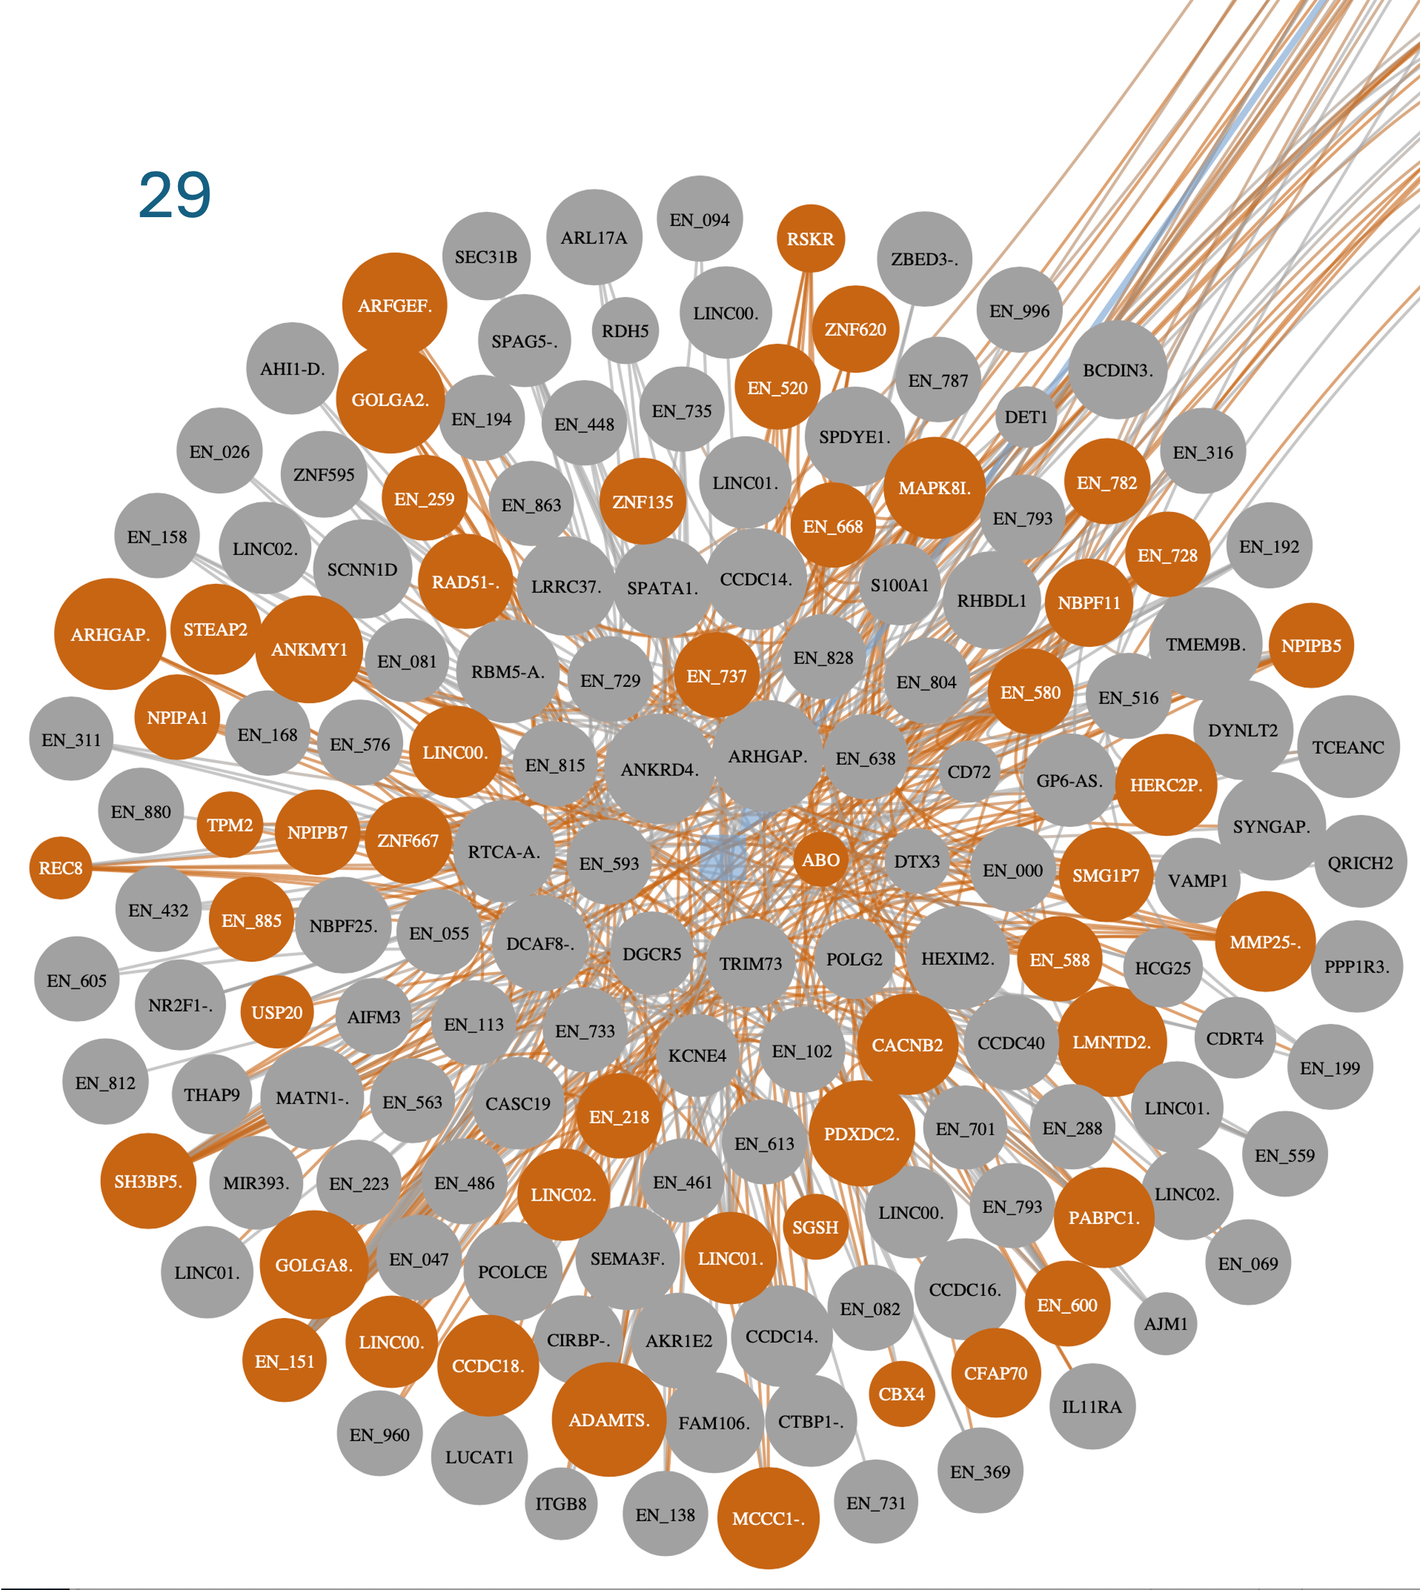
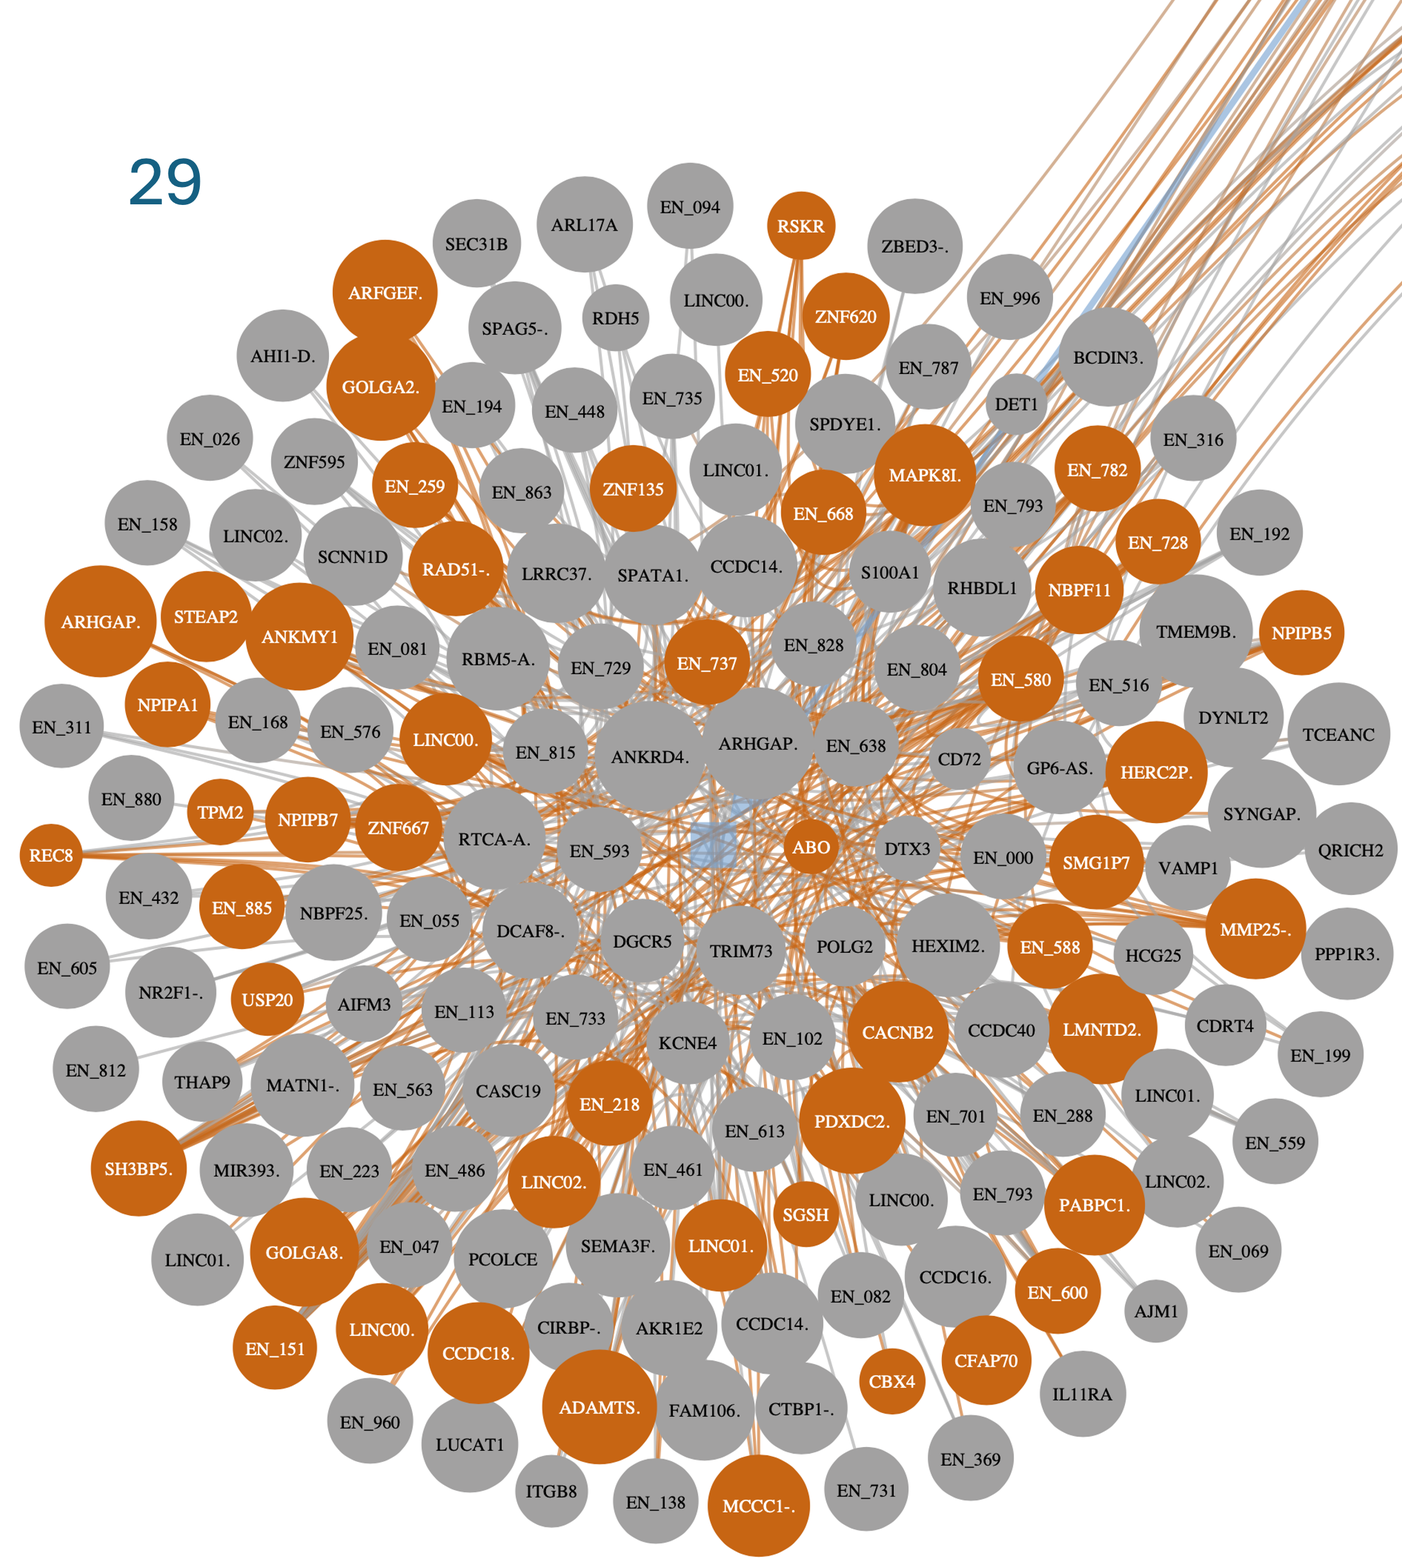
Some minor changes to Net II

Changed region(s): [[0.0, 0.0, 1.0, 1.0], [0.0935, 0.0937, 0.1558, 0.1561]]

diff --git a/Sections/Network_II/methods.tex b/Sections/Network_II/methods.tex
@@ -34,13 +34,13 @@ The new package was tested by comparing the outputs generated with \textit{iNet}
 
 In previous chapter two different edges weight modifiers were introduced with the goal to integrate the mutation count at the weight level; see \cref{fig:N_I:modifiers}. It was observed that both had an effect on the network metrics but with little impact on the MIBC stratification. One possible explanation for this is that the modifiers had a steep increase/decrease over the weights with no intermediate effect to the weights. This means that only a few genes and their connections were affected.
 
-The reward function is preferred over the penalised modifier as it did not contain isolated nodes. The initial version of the reward modifier is described by \cref{eq:norm3_func}, where w is the $log_2$ transformed of the mutation burden shifted by 1 (to avoid undefined values at 0 see \cref{eq:w}. $x$ represents the mutation burden taken from the TCGA dataset.  The behaviour of the function is shown by the red line in \cref{fig:N_II:modifiers_comp} which has an arc-like behaviour, where most of the mutated genes increase the weights value up to $50\%$ (value of $1.5$). The figure also shows that genes with high mutation burden do not have a proportional impact on the weight modifier.
+The reward function is preferred over the penalised modifier as it did not contain isolated nodes. The initial version of the reward modifier is described by \cref{eq:n_II:norm3_func}, where w is the $log_2$ transformed of the mutation burden shifted by 1 (to avoid undefined values at 0 see \cref{eq:n_II:w} \footnote{\Cref{eq:n_II:w,eq:n_II:norm3_func} are the same equations as the ones from \cref{s:N_I:weight_modifiers} and were presented here again to improve the reading experience.}. $x$ represents the mutation burden taken from the TCGA dataset.  The behaviour of the function is shown by the red line in \cref{fig:N_II:modifiers_comp} which has an arc-like behaviour, where most of the mutated genes increase the weights value up to $50\%$ (value of $1.5$). The figure also shows that genes with high mutation burden do not have a proportional impact on the weight modifier.
 
-\begin{equation} \label{eq:w}
+\begin{equation} \label{eq:n_II:w}
     w(x) = \log_2(x+1)
 \end{equation}
 
-\begin{equation} \label{eq:norm3_func}
+\begin{equation} \label{eq:n_II:norm3_func}
 \text{f}(w) = \frac{\max(w) + w}{\max(w)}
 \end{equation}
 
@@ -50,14 +50,14 @@ To accommodate the limitation of the previous function, a new reward function is
 \text{f}(x) =  \frac{1}{1 + e^{-(x - x_0)}} + 1, \text{ where } x_0=-8
 \end{equation}
 
-The behaviour of the logistic reward function is represented by the green line in \cref{fig:N_II:modifiers_comp}. From the figure it can be noticed the gradual increase of the weight modifier with the mutational burden. Highly mutated genes sch as \textit{FGFR3, KMT2C, PIK3CA} have a much higher impact on the weights compared to the previous weight function. It also worth noting that a 50\% increase of the weight value happens at a point of $\sim30$ mutation burden.
+The behaviour of the logistic reward function is represented by the green line in \cref{fig:N_II:modifiers_comp}. From the figure it can be noticed the gradual increase of the weight modifier with the mutational burden. Highly mutated genes sch as \textit{FGFR3, KMT2C, PIK3CA} have a much higher impact on the weights compared to the previous weight function. It worth noting that a 50\% increase of the weight value happens at a point of $\sim30$ mutation burden equating to $\sim7\%$ of the cohort mutated there are 112 genes mutated
 
 Later in the chapter, \cref{s:N_II:reward_comp}, there is a direct comparison of the network metrics across both tumour and non-tumour of the two modifier functions.
 
 \begin{figure}[H]    
     \centering
     \includegraphics[width=1.0\textwidth,height=1.0\textheight,keepaspectratio]{Sections/Network_II/validation/reward_modifiers.png}
-    \caption{The two reward modifiers explored in this project: Reward v1 (red) and Reward v2 (sigmoid). Both are shown over the mutation burden from TCGA. The points correspond to both of the plots but only shown on the Reward 2 line to avoid clutter. A value on the Y-axis of $1.2$ will mean that the weight is increased by $20\%$ where of $2$ will result in doubling it as it is the case for the highly mutated $TP53$. }
+    \caption{The two reward modifiers explored in this project: Reward v1 (red) and Reward v2 (sigmoid). Both are shown over the mutation burden from TCGA. The points correspond to both of the plots but only shown on the Reward 2 line to avoid clutter. A value on the Y-axis of $1.2$ will mean that the weight is increased by $20\%$ where of $2$ will result in doubling it as it is the case for the highly mutated \textit{TP53} or \textit{TTN}. }
     \label{fig:N_II:modifiers_comp}
 \end{figure}
 
@@ -65,19 +65,20 @@ Later in the chapter, \cref{s:N_II:reward_comp}, there is a direct comparison of
 % iMev
 \subsection*{iMev - integrative MEV} \label{s:N_II:iMEV}
 
-Module Evaluation Value or MEV was introduced in the PGCNA work from \citet{Care2019-ij} and covered in the pseudo-algorithm \cref{alg:N_I:mev}. The role of the score is to bridge the gap between the gene to tumour representation by showing how much a sample is enriched by the (selected) gene expression from a community. This is done by summing up the z-scores of the $log_2$ gene expression in the community. Importantly, the gene expression  for the z-score has to always be from the dataset that is stratified which usually is the MIBC cohort from TCGA. This means that when the non-tumour dataset was used to generated the network, in \cref{s:N_II}, the gene expression of the non-tumour samples were not considered to inform the tumour subtyping. This can be accommodated by adapting the z-score.
+Module Evaluation Value or MEV was introduced in the PGCNA work from \citet{Care2019-ij} and covered in \cref{s:N_I:mev}. The role of the score is to bridge the gap between the gene to tumour representation by showing how much a sample is enriched by the (selected) gene expression from a community. This is done by summing up the z-scores of the $log_2$ gene expression in the community. Importantly, the gene expression  for the z-score has to always be from the dataset that is stratified which usually is the MIBC cohort from TCGA. This means that when the non-tumour dataset was used to generated the network, in \cref{s:N_II}, the gene expression of the non-tumour samples were not considered to inform the tumour subtyping. This can be accommodated by adapting the z-score.
 
-\begin{equation} \label{s:N_II:z_score}
+\begin{equation} \label{eq:N_II:z_score}
 z = \frac{x_{tum} - \mu_{tum}}{\sigma_{tum}}
 \end{equation}
 
-To calculate the z-score for the tumour dataset the equation in \cref{s:N_II:z_score} is used, where $x_{tum}$ is the observed expression in a tumour sample, $\mu_{tum}$ and $\sigma_{tum}$ are the mean and standard expression across tumours. In the context of this project, the z-score measures how far the expression of a gene in a sample is from the mean expression across the tumours. Positive values denoting that the sample expression is higher than the mean while negative values indicating that is lower.
+To calculate the z-score for the tumour dataset the equation in \cref{eq:N_II:z_score} is used, where $x_{tum}$ is the observed expression in a tumour sample, $\mu_{tum}$ and $\sigma_{tum}$ are the mean and standard expression across tumours. In the context of this project, the z-score measures how far the expression of a gene in a sample is from the mean expression across the tumours. Positive values denoting that the sample expression is higher than the mean while negative values indicating that is lower.
 
 
-\begin{equation} \label{s:N_II:i_z_score}
+\begin{equation} \label{eq:N_II:i_z_score}
 z = \frac{x_{tum} - \mu_{non\_tum}}{\sigma_{non\_tum}}
 \end{equation}
 
-To integrate two gene expression datasets the z-score equation, \cref{s:N_II:z_score}, can be adapted to accommodated to \cref{s:N_II:i_z_score}. The slight change occurs at the mean and standard deviation which are now computed for the non-tumour samples or the dataset that it is used to generate the network; the observed samples, $x_{tum}$ remains unchanged. The modification of the z-score brings the distribution characteristics of the non-tumour dataset (or the data used to create the network) into the equation of computing the MEV. In other words, the equation \cref{s:N_II:i_z_score} is computing how far is the gene expression in a tumour tumour sample with respect to the mean and standard deviation of the non-tumour. Thus, it is considering the expression trend in the non-tumour dataset but it is uses the sample observation from the tumour dataset.
+The integrate the two gene expression datasets, the MEV score is changed to consider the expression trend in the non-tumour dataset but to use the sample observation from the tumour dataset; described by \cref{eq:N_II:i_z_score}. The change occurs at the mean and standard deviation which are now computed for the non-tumour samples or the dataset that it is used to generate the network; the observed samples, $x_{tum}$ remains unchanged. The modification of the z-score brings the distribution characteristics of the non-tumour dataset (or the data used to create the network) into the equation of computing the MEV. In other words, the equation \cref{s:N_II:i_z_score} is computing how far is the gene expression in a tumour tumour sample with respect to the mean and standard deviation of the non-tumour.
+
 
 

diff --git a/Sections/Network_II/appendix.tex b/Sections/Network_II/appendix.tex
@@ -1,5 +1,6 @@
-\chapter{Network II - Non-tumour split}
+\chapter{Network II}
 
+\newpage
 \section{Validation} \label{ap:N_II:validation}
 
 \subsection{MIBC comparison} \label{ap:N_II:val_mibc_comp}
@@ -7,14 +8,14 @@
 Below MIBC comparison figure complements the work from \cref{s:N_II:mev_comp}. K-means with K=7 was chosen as this was the cluster configuration found in the cluster analysis performed on the MEVs derived from the reward network in \cref{s:ap:N_II:clustering analysis}.
 
 
-\begin{figure}[!b]
+\begin{figure}[H]
     \centering
-    \begin{subfigure}{1.0\linewidth}
+    \begin{subfigure}{0.9\linewidth}
         \includegraphics[width=1.0\textwidth,keepaspectratio]{Sections/Network_II/validation/mevs_comp_std_K_7.png}
         \caption{Standard networks}
     \end{subfigure} %
     \centering
-    \begin{subfigure}{1.0\linewidth}
+    \begin{subfigure}{0.9\linewidth}
         \includegraphics[width=1.0\textwidth,keepaspectratio]{Sections/Network_II/validation/mevs_comp_rwd_K_7.png}
         \caption{Reward v2 networks}
     \end{subfigure}
@@ -27,14 +28,12 @@ Below MIBC comparison figure complements the work from \cref{s:N_II:mev_comp}. K
 % Standard 
 \section{Standard Network} \label{ap:N_II:coms}
 
-\newpage
-
 % 25
 \subsection*{Community 25}
 
 \begin{figure}[H]    
     \centering
-    \includegraphics[width=1.0\textwidth,height=1.0\textheight,keepaspectratio]{Sections/Network_II/resources/non_tum/25_com.png}
+    \includegraphics[width=0.9\textwidth,keepaspectratio]{Sections/Network_II/resources/non_tum/25_com.png}
     \caption{Community 25 (along with 19 and 29) drives the splits in the tissue differentiation datasets. This community is enriched in the large Abs-Ca and the small P0 subgroups from \cref{fig:N_II:non_tum_sankey_comp}. The community contains 180 genes from which 50 with the highest ModCon score are highlighted in orange. To aid the visualisation some of the genes were trim, for the ones with longer names the first 5 letters were kept while for 'ENSG...' like nodes the "EN\_" and the last 3 digits were kept. See \cref{s:N_II:comm_charact} for more details, community 19 (\cref{fig:N_II:19_com}) and 29 (\cref{fig:ap:com_29}). }
     \label{fig:ap:com_25}
 \end{figure}
@@ -44,9 +43,9 @@ Below MIBC comparison figure complements the work from \cref{s:N_II:mev_comp}. K
 % 29
 \subsection*{Community 29}
 
-\begin{figure}[H]    
+\begin{figure}[!htb]    
     \centering
-    \includegraphics[width=1.0\textwidth,height=1.0\textheight,keepaspectratio]{Sections/Network_II/resources/non_tum/29_com.png}
+    \includegraphics[width=0.9\textwidth,keepaspectratio]{Sections/Network_II/resources/non_tum/29_com.png}
     \caption{Community 29 (along with 19 and 25) drives the splits in the tissue differentiation datasets. This community is enriched in the small Abs-Ca and the large P0 subgroups from \cref{fig:N_II:non_tum_sankey_comp}. The community contains 164 genes from which 50 with the highest ModCon score are highlighted in orange. To aid the visualisation some of the genes were trim, for the ones with longer names the first 5 letters were kept while for 'ENSG...' like nodes the "EN\_" and the last 3 digits were kept.  See the network representation of community 19 (\cref{fig:N_II:19_com}) and 29 (\cref{fig:ap:com_29}).}
     \label{fig:ap:com_29}
 \end{figure}
@@ -57,11 +56,10 @@ Below MIBC comparison figure complements the work from \cref{s:N_II:mev_comp}. K
 \section{Reward Network}
 
 % Mean degree 
-\subsection{Mean Degree vs Community size}
 \begin{sidewaysfigure}   
     \centering
     \includegraphics[width=1.0\textwidth,height=1.0\textheight,keepaspectratio]{Sections/Network_II/resources/reward/Degree_vs_ComSize.png}
-    \caption{The top bar shows the community size (Y-axis) of the communities while the other plot the mean degree (Y-axis) in a community. This two complementary figures show that communities with a high number of connections are grouped in smaller communities while the large contains nodes with a low node degree. This plot helps the analysis performed in \cref{s:N_II:high_conn}. } 
+    \caption{The top bar shows the community size (Y-axis) of the communities while the other plot the mean degree (Y-axis) in a community. This two complementary figures show that communities with a high number of connections are grouped in smaller communities while the large contains nodes with a low node degree. This plot complements the analysis performed in \cref{s:N_II:high_conn}. There is an inverse relationship between the community size and the number of connections.} 
     \label{fig:ap:degree_com_size}
 \end{sidewaysfigure}
 
@@ -69,6 +67,8 @@ Below MIBC comparison figure complements the work from \cref{s:N_II:mev_comp}. K
 
 % High degree communities
 \subsection{High degree communities}
+
+The figure below represents the network representation of the small communities (\(<10\) nodes) with a high degree. These genes are explored in more details in \cref{s:N_II:high_conn} and show that are highly and strongly correlated with other genes, and have a high mutation burden. 
 
 \begin{figure}[H]    
     \centering

diff --git a/Sections/Network_II/master.tex b/Sections/Network_II/master.tex
@@ -20,11 +20,15 @@
 \section{Overview}
 
 % Presented the previous work on the network
-The previous two chapters presented the first iteration of the network pipeline developed to stratify the \acrfull{mibc} using multiple data types. Data integration occurred at three different stages: 1) non-tumour data at the network level, 2) mutation burden at the edge weights, and 3) prioritisation of \acrfull{tf} at the degree level. All three integrative methods were successfully used and validated through different graph metrics, but from a biological stance the most successfully strategy resulted from modifying the number of edges as covered in the selective edge pruning \cref{s:N_I:sel_pruning}.
+The previous two chapters presented the first iteration of the network pipeline developed to stratify the \acrfull{mibc} using multiple data types. Data integration occurred at three different stages: 1) non-tumour data at the network level, 2) mutation burden at te edge weights, and 3) prioritisation of \acrfull{tf} at the degree level. All three integrative methods were successfully used and validated through different graph metrics, but from a biological stance the most successfully strategy resulted from modifying the number of edges as covered in the selective edge pruning \cref{s:N_I:sel_pruning}.
+
+
+% Introduce the new network pipeline as an advanced version
+Building on the previous work presented in this project, this chapter enhances the network pipeline through several key advancements: 1) integrating all three datasets—P0, Abs-Ca, and UD—to construct a comprehensive network representation, 2) introducing a new weight modifier that gradually incorporates mutation burden, 3) presenting an integrative module evaluation value (iMEV) that considers gene expression across both tumour and non-tumour datasets, and 4) employing the \acrfull{hsbm}, which is not constrained by a predefined number of communities, allowing for a more flexible and detailed analysis.
 
 
 % Introduction to the limitations - Non-tumour dataset and MEV
-\Cref{s:p0} showed that using only the P0 dataset did not offer a sufficient representation of the non-tumour data, while the weight modifiers in \cref{s:N_I:tum} were not powerful enough to make a change in disease stratification. On top of that, the first version of the network pipeline suffered from some implementation limitations. When using the non-tumour data to build the network, the pipeline selects the genes that are the most connected in the communities, which are then used with the \textbf{tumour} expression to the Module Evaluation Value (MEV). This means that there is a decoupling between the data used to build the network and the one used for tumour stratification, in this case, the TCGA dataset. The limitation is addressed in the new version of the MEV introduced, which takes into account both datasets, introduced in \cref{s:N_II:iMEV}.
+\Cref{s:p0} showed that using only the P0 dataset did not offer a sufficient representation of the non-tumour data, while the weight modifiers in \cref{s:N_I:tum} were not powerful enough to make a change in disease stratification. When using the non-tumour data to build the network, the pipeline selects the genes that are the most connected in the communities, which are then used with the \textbf{tumour} expression to the Module Evaluation Value (MEV). This means that there is a decoupling between the data used to build the network and the one used for tumour stratification, in this case, the TCGA dataset. The limitation is addressed in the new version of the MEV introduced, which takes into account both datasets, introduced in \cref{s:N_II:iMEV}.
 
 
 % Weight reward changes
@@ -46,9 +50,6 @@ The aims of this chapter is to advance the previously introduced network method 
     \item All non-tumour datasets - Three different gene expression datasets are used to build network: differentiated (ABS-Ca), undifferentiated and freshly isolated samples (P0)
     \item hierarchical Stochastic Block Model (hSBM)
 \end{itemize}
-
-The objectives for th
-
 
 \subsection*{Datasets}
 

diff --git a/Sections/Network_II/validation.tex b/Sections/Network_II/validation.tex
@@ -9,10 +9,10 @@ This part of the chapter contains different comparisons and network metrics anal
 
 To study the differences between the non-tumour and tumour networks the previously used graph metrics (degree, pageRank, closeness, betweenness and IVI,  )\footnote{Reminder: the degree - node's number of connections; pageRank - node's centrality;  closeness - how close the nodes are; betwenees - nodes between; IVI - a combination of network metrics} are shown in \cref{fig:N_II:net_metrics_comp}. There are four networks compared:
 \begin{enumerate}
-    \item \textbf{Tumour standard} - graph derived from tumour dataset without mutation burden integration (red)
-    \item \textbf{Tumour reward} - graph derived from tumour dataset with mutation burden integration (mustard)
-    \item \textbf{Non-tumour standard} - graph derived using the non-tumour dataset without mutation burden integration (green)
-    \item \textbf{Non-tumour reward} - graph derived using the non-tumour dataset with mutation burden integration (blue)
+    \item \textbf{Tumour standard} - network derived from tumour dataset without mutation burden integration (red)
+    \item \textbf{Tumour reward} - network derived from tumour dataset with mutation burden integration (mustard)
+    \item \textbf{Non-tumour standard} - network derived using the non-tumour dataset without mutation burden integration (green)
+    \item \textbf{Non-tumour reward} - network derived using the non-tumour dataset with mutation burden integration (blue)
 \end{enumerate}
 
 
